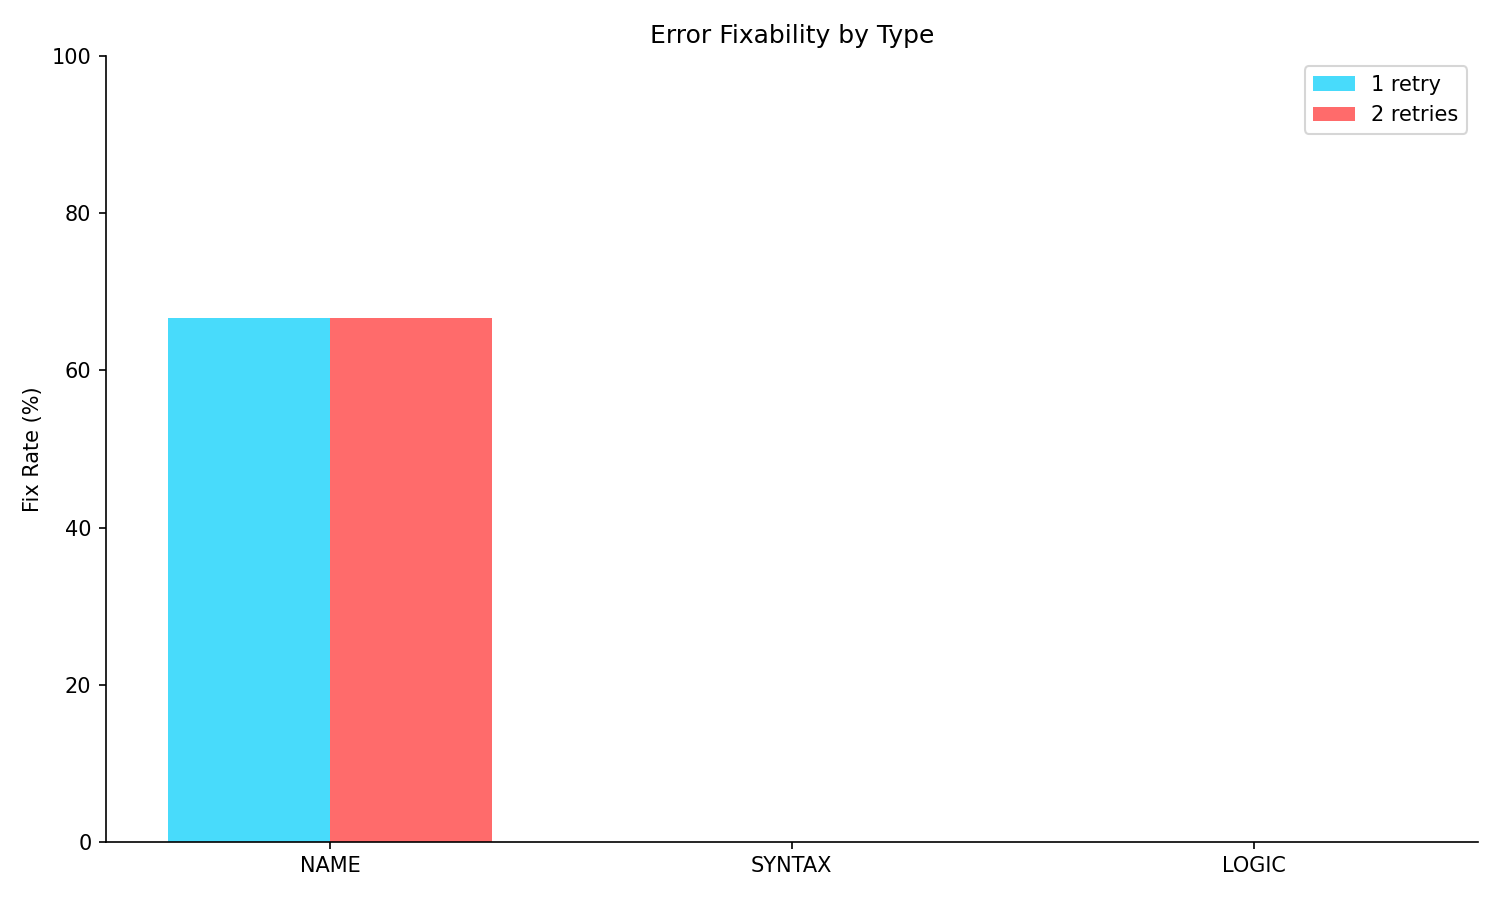
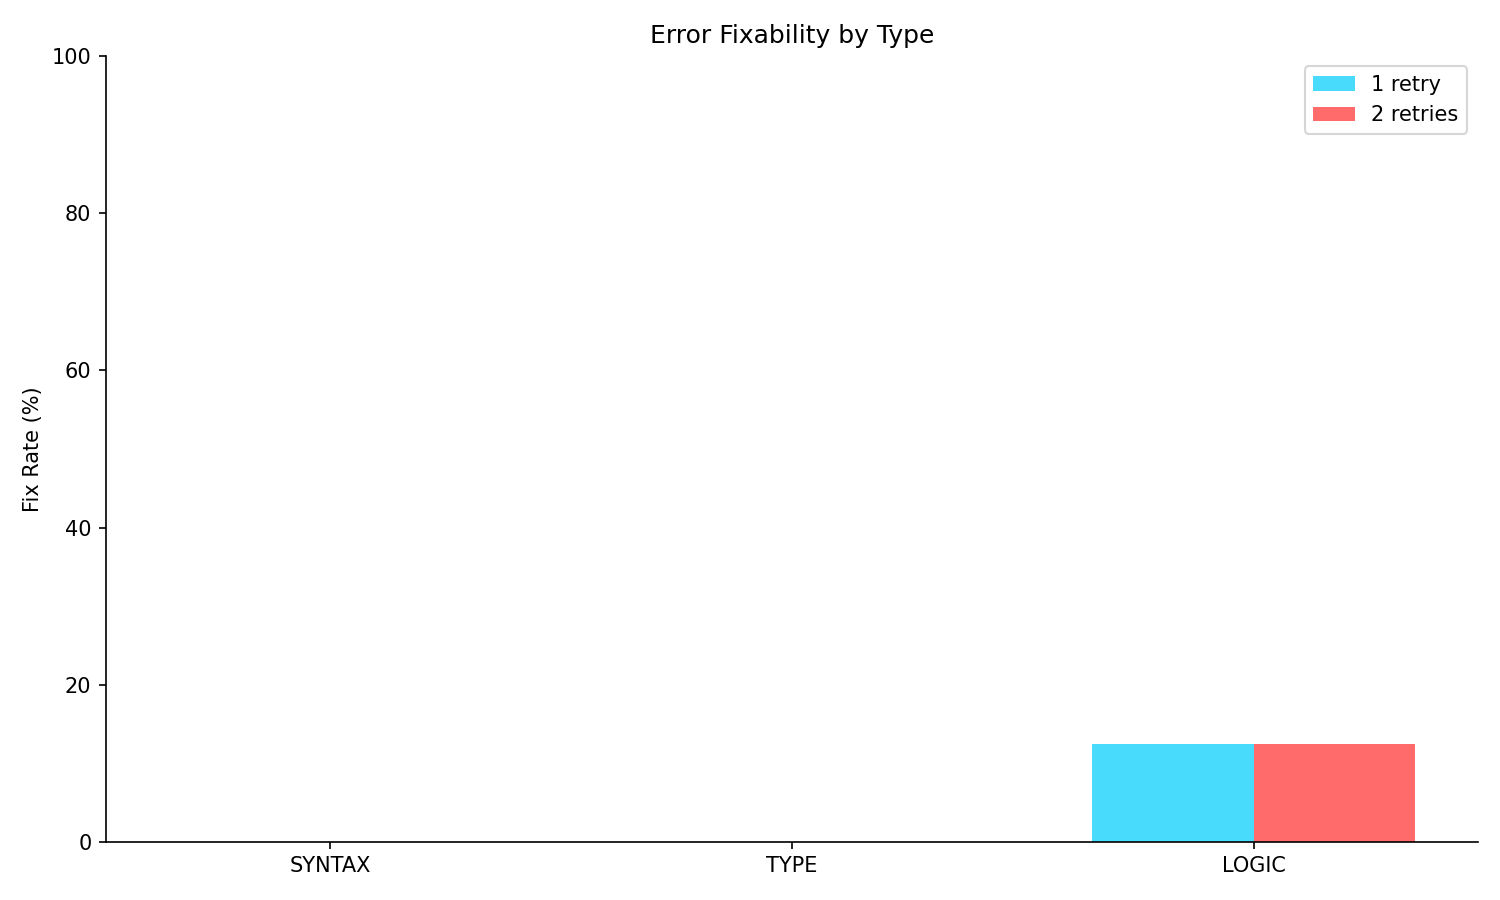
groq client, model comparison, improved prompts

Changed region(s): [[0.092, 0.3422, 0.3373, 0.9644], [0.7053, 0.8089, 0.9507, 0.9333], [0.4907, 0.9333, 0.552, 0.9644]]

diff --git a/src/eval/compare_models.py b/src/eval/compare_models.py
@@ -1,0 +1,112 @@
+import json
+import time
+from pathlib import Path
+from rich.console import Console
+from rich.table import Table
+
+from .benchmarks import load_humaneval
+from ..loop.orchestrator import Orchestrator
+from ..llm.ollama_client import OllamaClient
+from ..llm.groq_client import GroqClient
+from ..sandbox.docker_runner import DockerSandbox
+
+console = Console()
+
+
+def run_comparison(limit: int = 20, output_dir: str = "runs"):
+    console.print("\n[bold]Model Comparison: Ollama vs Groq[/bold]\n")
+    
+    problems = load_humaneval(limit=limit)
+    console.print(f"Loaded {len(problems)} problems\n")
+    
+    sandbox = DockerSandbox()
+    
+    results = {"ollama": [], "groq": []}
+    
+    # run ollama
+    console.print("[cyan]Running Ollama (codellama:7b)...[/cyan]")
+    ollama = OllamaClient()
+    orch_ollama = Orchestrator(llm=ollama, sandbox=sandbox, max_attempts=3)
+    
+    for p in problems:
+        t0 = time.time()
+        r = orch_ollama.solve(p.prompt, p.tests)
+        elapsed = time.time() - t0
+        
+        results["ollama"].append({
+            "task_id": p.task_id,
+            "solved": r.solved,
+            "attempts": len(r.attempts),
+            "time": elapsed
+        })
+        status = "✓" if r.solved else "✗"
+        console.print(f"  {p.task_id}: {status} ({len(r.attempts)} attempts)")
+    
+    # run groq
+    console.print("\n[cyan]Running Groq (llama-3.3-70b)...[/cyan]")
+    groq = GroqClient()
+    orch_groq = Orchestrator(llm=groq, sandbox=sandbox, max_attempts=3)
+    
+    for p in problems:
+        t0 = time.time()
+        r = orch_groq.solve(p.prompt, p.tests)
+        elapsed = time.time() - t0
+        
+        results["groq"].append({
+            "task_id": p.task_id,
+            "solved": r.solved,
+            "attempts": len(r.attempts),
+            "time": elapsed
+        })
+        status = "✓" if r.solved else "✗"
+        console.print(f"  {p.task_id}: {status} ({len(r.attempts)} attempts)")
+        
+        time.sleep(2)  # rate limit
+    
+    # calc stats
+    def calc_stats(data):
+        n = len(data)
+        solved = sum(1 for d in data if d["solved"])
+        pass1 = sum(1 for d in data if d["solved"] and d["attempts"] == 1)
+        return {
+            "total": n,
+            "solved": solved,
+            "pass_at_1": round(pass1 / n * 100, 1),
+            "pass_at_3": round(solved / n * 100, 1),
+            "avg_time": round(sum(d["time"] for d in data) / n, 1)
+        }
+    
+    ollama_stats = calc_stats(results["ollama"])
+    groq_stats = calc_stats(results["groq"])
+    
+    # print comparison
+    console.print("\n")
+    table = Table(title="Model Comparison Results")
+    table.add_column("Metric")
+    table.add_column("Ollama (7B)", style="cyan")
+    table.add_column("Groq (70B)", style="green")
+    
+    table.add_row("Pass@1", f"{ollama_stats['pass_at_1']}%", f"{groq_stats['pass_at_1']}%")
+    table.add_row("Pass@3", f"{ollama_stats['pass_at_3']}%", f"{groq_stats['pass_at_3']}%")
+    table.add_row("Avg Time", f"{ollama_stats['avg_time']}s", f"{groq_stats['avg_time']}s")
+    
+    o_imp = round((ollama_stats['pass_at_3'] - ollama_stats['pass_at_1']) / ollama_stats['pass_at_1'] * 100, 1) if ollama_stats['pass_at_1'] > 0 else 0
+    g_imp = round((groq_stats['pass_at_3'] - groq_stats['pass_at_1']) / groq_stats['pass_at_1'] * 100, 1) if groq_stats['pass_at_1'] > 0 else 0
+    table.add_row("Improvement", f"{o_imp}%", f"{g_imp}%")
+    
+    console.print(table)
+    
+    # save
+    Path(output_dir).mkdir(exist_ok=True)
+    out_path = f"{output_dir}/model_comparison.json"
+    with open(out_path, "w") as f:
+        json.dump({"ollama": ollama_stats, "groq": groq_stats, "results": results}, f, indent=2)
+    console.print(f"\n[green]Saved to {out_path}[/green]")
+
+
+if __name__ == "__main__":
+    import argparse
+    parser = argparse.ArgumentParser()
+    parser.add_argument("--limit", type=int, default=20)
+    args = parser.parse_args()
+    run_comparison(limit=args.limit)

diff --git a/src/llm/groq_client.py b/src/llm/groq_client.py
@@ -1,0 +1,74 @@
+import os
+import re
+import time
+from typing import Optional
+from pydantic import BaseModel
+
+
+class GenerationResult(BaseModel):
+    code: str
+    raw_response: str
+    generation_time: float
+    prompt_tokens: Optional[int] = None
+    completion_tokens: Optional[int] = None
+
+
+class GroqClient:
+    
+    def __init__(self, model: str = "llama-3.3-70b-versatile", api_key: str = None):
+        from groq import Groq
+        self.model = model
+        self.client = Groq(api_key=api_key or os.environ.get("GROQ_API_KEY"))
+    
+    def generate(self, prompt: str) -> GenerationResult:
+        t0 = time.time()
+        
+        response = self.client.chat.completions.create(
+            model=self.model,
+            messages=[{"role": "user", "content": prompt}],
+            temperature=0.2,
+            max_tokens=512
+        )
+        
+        gen_time = time.time() - t0
+        raw = response.choices[0].message.content
+        code = self._extract_code(raw)
+        
+        return GenerationResult(
+            code=code,
+            raw_response=raw,
+            generation_time=gen_time,
+            prompt_tokens=response.usage.prompt_tokens,
+            completion_tokens=response.usage.completion_tokens
+        )
+    
+    def _extract_code(self, response: str) -> str:
+        md = re.findall(r"```(?:python)?\n(.*?)```", response, re.DOTALL)
+        if md:
+            return md[0].strip()
+        
+        py = re.findall(r"\[PYTHON\]\n?(.*?)\[/PYTHON\]", response, re.DOTALL)
+        if py:
+            return py[0].strip()
+        
+        return response.strip()
+    
+    def is_available(self) -> bool:
+        try:
+            self.client.models.list()
+            return True
+        except:
+            return False
+
+
+if __name__ == "__main__":
+    client = GroqClient()
+    
+    if not client.is_available():
+        print("Groq not available. Set GROQ_API_KEY env variable.")
+        exit(1)
+    
+    print("Testing Groq...")
+    result = client.generate("Write a Python function to check if a number is prime. Return only code.")
+    print(f"Time: {result.generation_time:.2f}s")
+    print(result.code)

diff --git a/src/loop/patch_builder.py b/src/loop/patch_builder.py
@@ -29,16 +29,15 @@ Return ONLY the fixed code, no explanation."""
 
 
 def _logic_prompt(code: str, error: ErrorInfo, tests: str) -> str:
-    # extract actual assertions from test code to show expected behavior
     test_hints = ""
     if tests:
         lines = [l.strip() for l in tests.split('\n') if 'assert' in l]
         if lines:
-            test_hints = "\nExpected behavior:\n" + "\n".join(lines[:5])
+            test_hints = "\n\nThese are the expected behaviors:\n" + "\n".join(lines[:5])
     
     failing = ", ".join(error.failing_tests) if error.failing_tests else "unknown"
     
-    return f"""This code produces wrong output. Fix the logic.
+    return f"""This code returns wrong output. The logic is incorrect.
 ```python
 {code}
 ```
@@ -46,7 +45,8 @@ def _logic_prompt(code: str, error: ErrorInfo, tests: str) -> str:
 Failing tests: {failing}
 {test_hints}
 
-Think step by step about what the function should do, then fix it.
+The assertions show what the function SHOULD return. Study them carefully.
+Fix the logic to match the expected output.
 Return ONLY the fixed code, no explanation."""
 
 

diff --git a/src/eval/benchmarks.py b/src/eval/benchmarks.py
@@ -43,14 +43,18 @@ def load_mbpp(limit: Optional[int] = None) -> List[Problem]:
         if limit and i >= limit:
             break
         
-        # mbpp has test_list with assert statements
         test_code = _convert_mbpp_tests(item["test_list"], item["task_id"])
+        func_name = _extract_function_name(item["code"])
+        
+        # building a proper prompt with function signature
+        sig = item["code"].split("\n")[0]  # get "def func_name(...):"
+        prompt = f"{item['prompt']}\n\n{sig}\n"
         
         problems.append(Problem(
             task_id=f"MBPP/{item['task_id']}",
-            prompt=item["prompt"] + "\n\n" + item["code"].split("def ")[0] if "def " in item["code"] else item["prompt"],
+            prompt=prompt,
             tests=test_code,
-            entry_point=_extract_function_name(item["code"]),
+            entry_point=func_name,
             source="mbpp"
         ))
     

diff --git a/reports/report.md b/reports/report.md
@@ -2,27 +2,27 @@
 
 ## Summary
 
-- Total problems: 10
-- Solved: 7 (70.0%)
-- Pass@1: 50.0%
+- Total problems: 30
+- Solved: 21 (70.0%)
+- Pass@1: 66.7%
 - Pass@2: 70.0%
 - Pass@3: 70.0%
-- Avg time: 69.84s
+- Avg time: 50.34s
 
-**Improvement from self-correction: 40.0%**
+**Improvement from self-correction: 4.9%**
 
 ## Error Distribution
 
 | Error Type | Count |
 |------------|-------|
-| NAME | 4 |
+| LOGIC | 17 |
 | SYNTAX | 2 |
-| LOGIC | 2 |
+| TYPE | 1 |
 
 ## Fixability Analysis
 
 | Error Type | Total | Fixed (1 retry) | Fixed (2 retries) |
 |------------|-------|-----------------|-------------------|
-| NAME | 3 | 66.7% | 66.7% |
 | SYNTAX | 1 | 0.0% | 0.0% |
-| LOGIC | 1 | 0.0% | 0.0% |
+| TYPE | 1 | 0.0% | 0.0% |
+| LOGIC | 8 | 12.5% | 12.5% |
